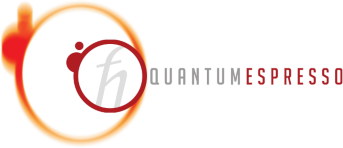
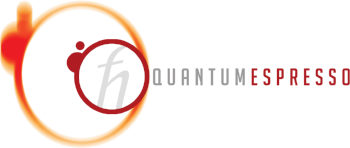
DOC: add Espresso to index and release notes
Updated logo to transparent background

diff --git a/doc/index.rst b/doc/index.rst
@@ -32,9 +32,9 @@ Supported :mod:`Calculators <ase.calculators>`:
 
 |abinit| |Asap| |Atomistica| |CASTEP| |CP2K| |deMon| |dftb|
 |elk| |exciting| |EMT|
-|fhi-aims| |fleur| |gpaw| |gromacs| 
+|fhi-aims| |fleur| |gpaw| |gromacs|
 |hotbit| |jacapo| |jdftx| |lammps| |nwchem|
-|octopus| |onetep| |siesta| |turbomole| |vasp|
+|octopus| |onetep| |q_espresso| |siesta| |turbomole| |vasp|
 :mod:`~ase.calculators.amber`
 :mod:`DMol³ <ase.calculators.dmol>`
 Gaussian_ Grimme-D3_ :mod:`~ase.calculators.gulp` Mopac_
@@ -208,6 +208,10 @@ Contents
 .. |onetep| image:: static/onetep.png
    :target: http://www.onetep.org/
    :align: middle
+.. |q_espresso| image:: static/espresso.png
+   :target: ase/calculators/espresso.html
+   :align: middle
+   :scale: 50
 .. |siesta| image:: static/siesta.png
    :target: ase/calculators/siesta.html
    :align: middle

diff --git a/doc/ase/calculators/espresso.rst b/doc/ase/calculators/espresso.rst
@@ -91,8 +91,8 @@ constraints (for dynamic calculations).
 Alternative Calculators
 =======================
 
-There are several other QE `Calculator`s based on `ase` that provide a number
-of extra features:
+There are several other QE ``Calculator`` implementations based on ``ase``
+that provide a number of extra features:
 
  - http://jochym.github.io/qe-util/
  - https://github.com/vossjo/ase-espresso

diff --git a/doc/releasenotes.rst b/doc/releasenotes.rst
@@ -18,6 +18,9 @@ Git master branch
 
 * New ``ase find`` :ref:`command <cli>` for finding atoms in files.
 
+* Added :class:`Espresso <ase.calculators.espresso.Espresso>` calculator for
+  Quantum ESPRESSO in module :mod:`ase.calculators.espresso`.
+
 
 Version 3.14.1
 ==============
